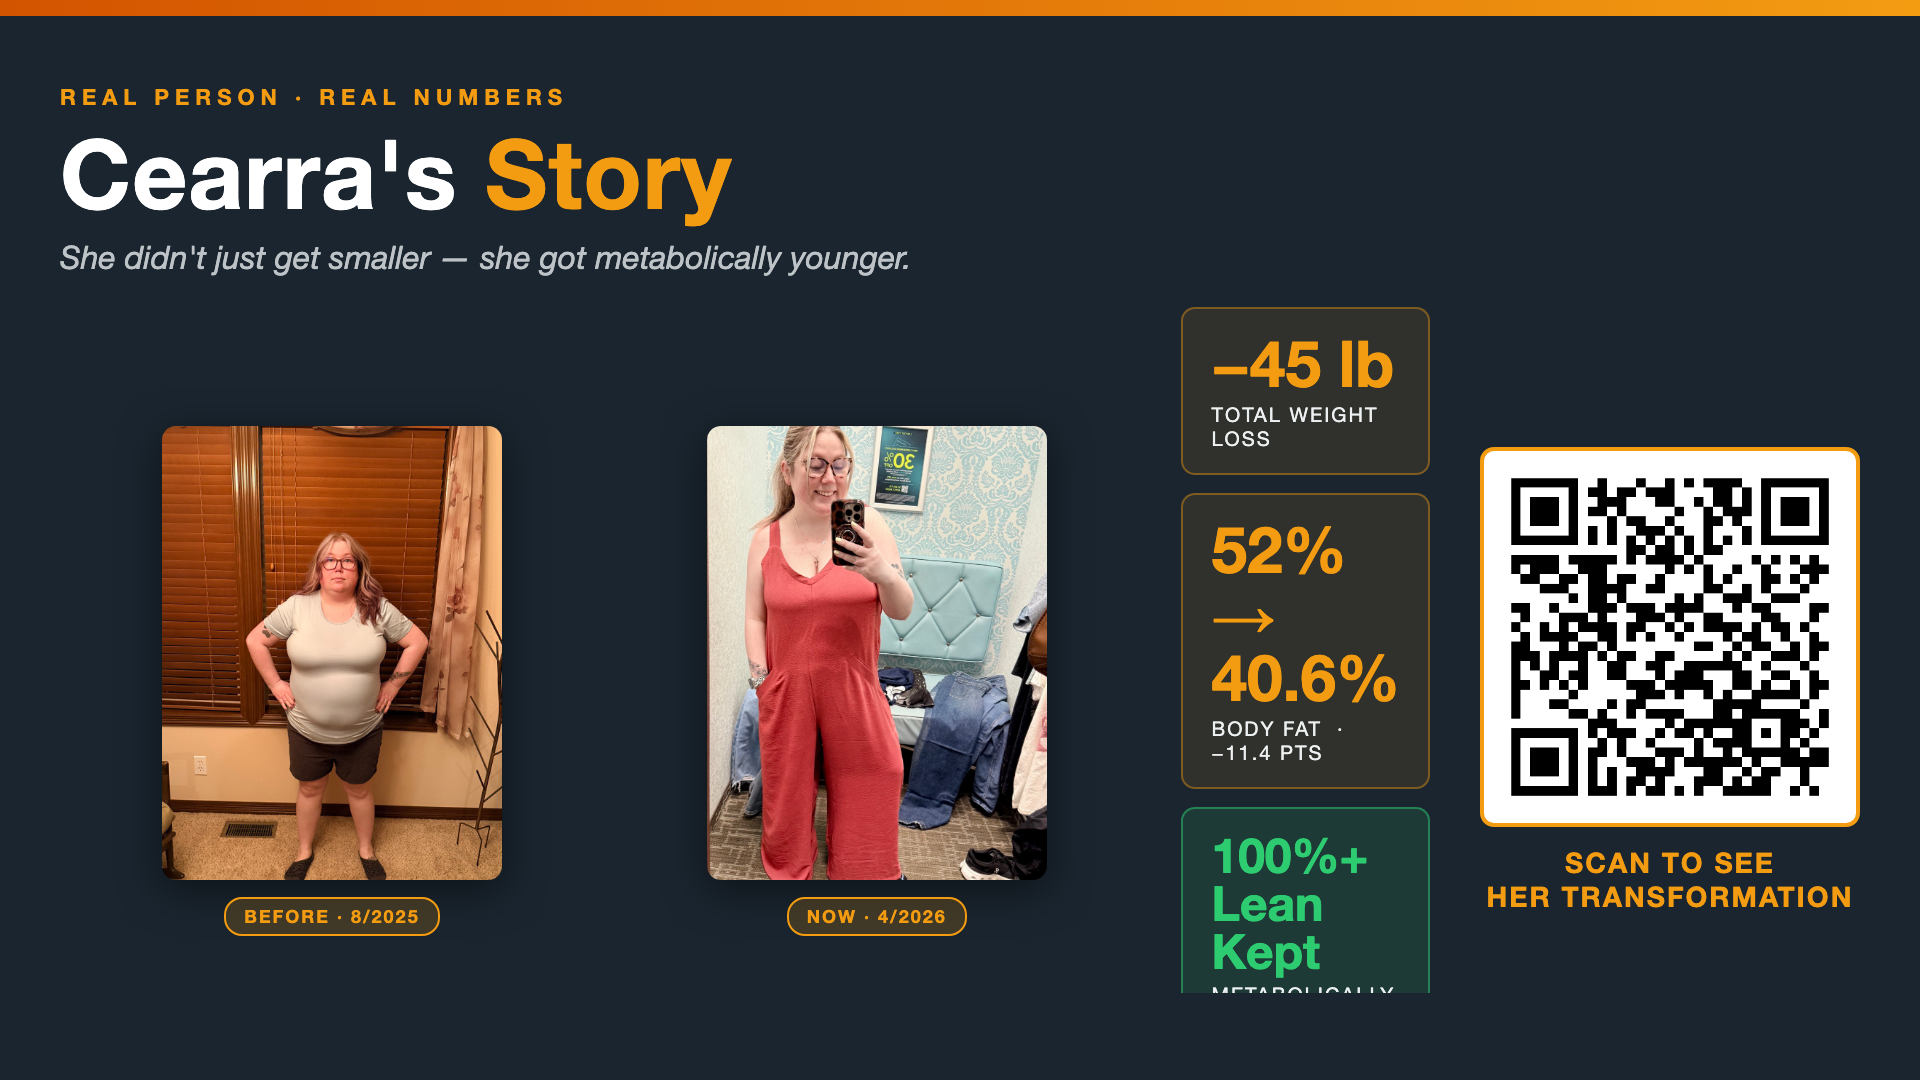
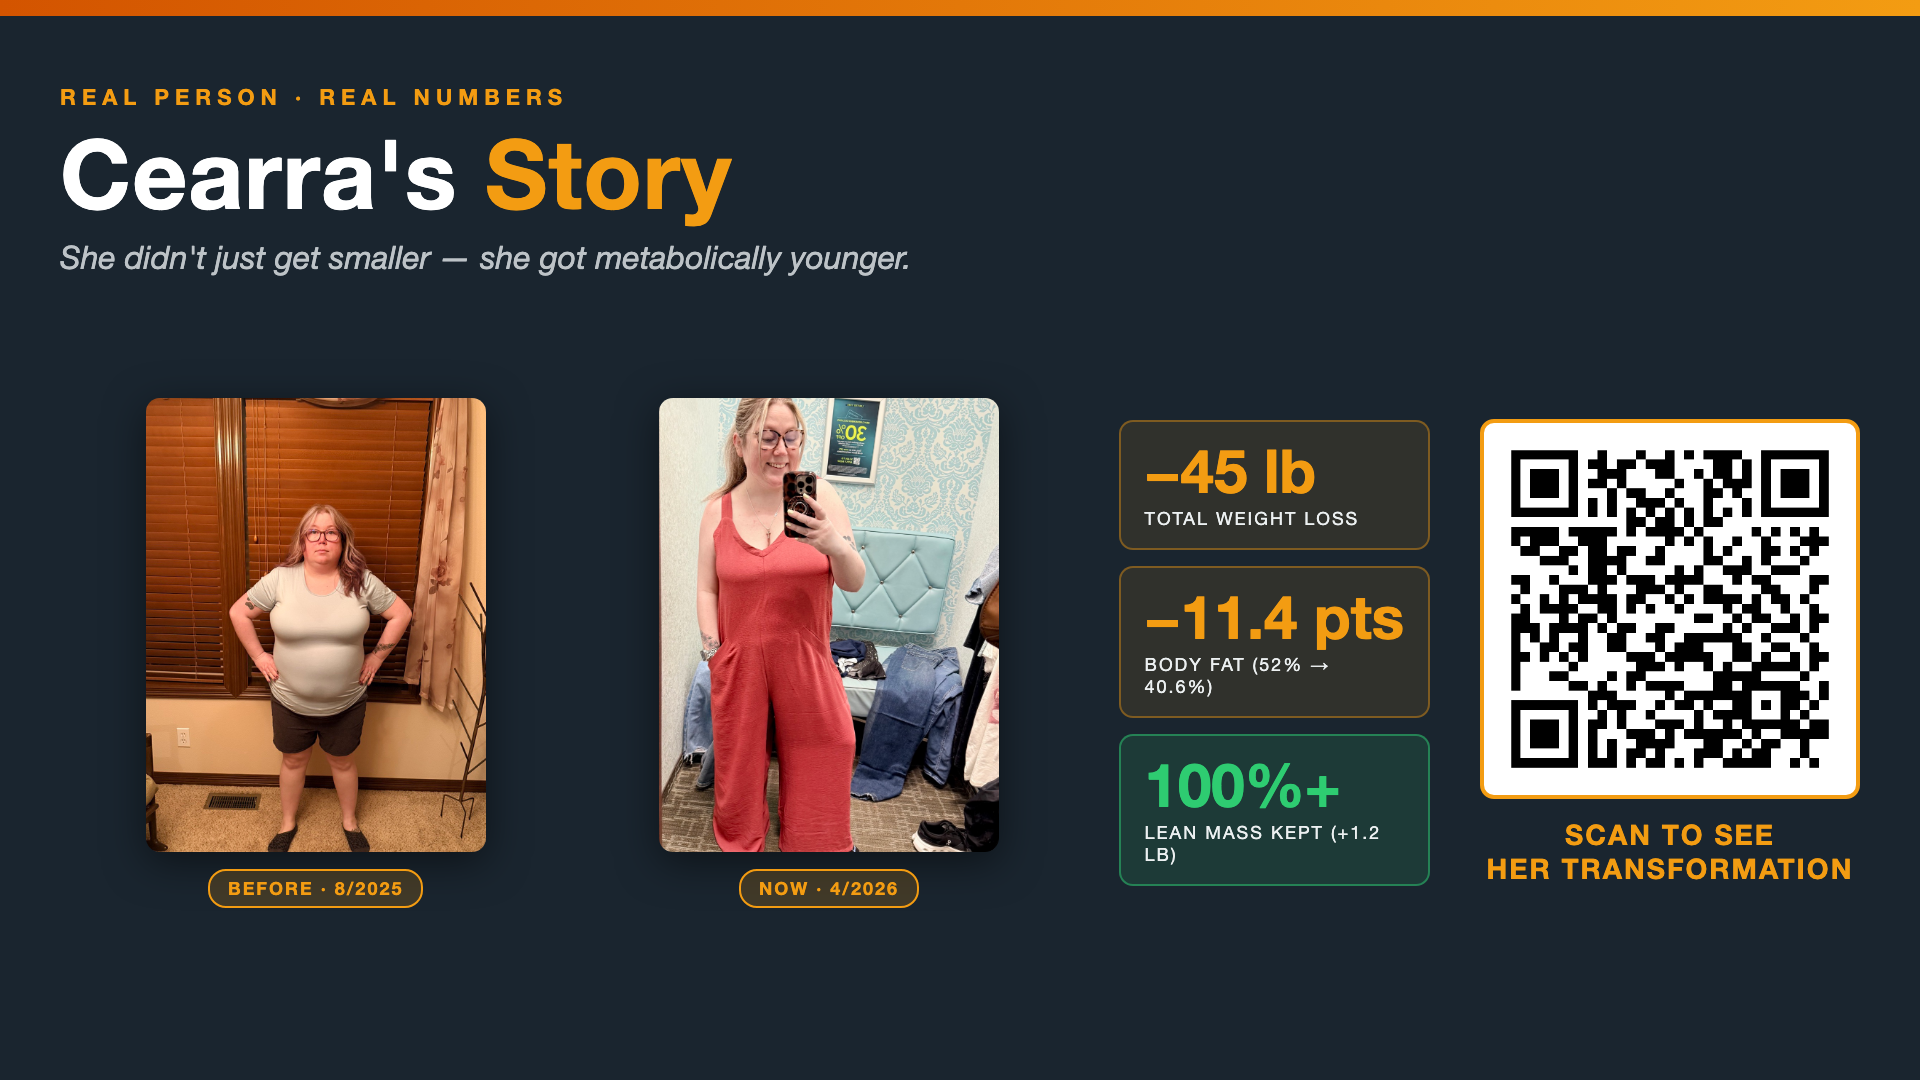
Tighten Cearra/Kolby slide stat cards so nothing clips
Constrains the right-hand stat column to 340px max-width, drops the
headline font from 64 → 60px with white-space:nowrap, and pulls the
numeric delta to the front of the body-fat card ("−11.4 pts" / "−16.8
pts") with the absolute range moved to the subtitle. The third (green)
card now reads "100%+" / "~98%" with the qualifier underneath, matching
the lean-retention framing on the story pages. Bottom of the third card
no longer renders past the 1080px frame.

diff --git a/tv-slides/slide-2-cearra.html b/tv-slides/slide-2-cearra.html
@@ -19,18 +19,18 @@
         </figure>
     </div>
 
-    <div style="flex:1; display:flex; flex-direction:column; gap:18px;">
-        <div style="background:rgba(243,156,18,0.10); border:2px solid rgba(243,156,18,0.4); border-radius:14px; padding:22px 28px;">
-            <div style="color:#f39c12; font-size:64px; font-weight:800; line-height:1;">−45 lb</div>
-            <div style="color:#ecf0f1; font-size:20px; text-transform:uppercase; letter-spacing:2px; margin-top:8px;">Total Weight Loss</div>
+    <div style="flex:1; display:flex; flex-direction:column; gap:16px; max-width:340px;">
+        <div style="background:rgba(243,156,18,0.10); border:2px solid rgba(243,156,18,0.4); border-radius:14px; padding:18px 24px;">
+            <div style="color:#f39c12; font-size:60px; font-weight:800; line-height:1; white-space:nowrap;">−45 lb</div>
+            <div style="color:#ecf0f1; font-size:18px; text-transform:uppercase; letter-spacing:2px; margin-top:8px;">Total Weight Loss</div>
         </div>
-        <div style="background:rgba(243,156,18,0.10); border:2px solid rgba(243,156,18,0.4); border-radius:14px; padding:22px 28px;">
-            <div style="color:#f39c12; font-size:64px; font-weight:800; line-height:1;">52% → 40.6%</div>
-            <div style="color:#ecf0f1; font-size:20px; text-transform:uppercase; letter-spacing:2px; margin-top:8px;">Body Fat &nbsp;·&nbsp; −11.4 pts</div>
+        <div style="background:rgba(243,156,18,0.10); border:2px solid rgba(243,156,18,0.4); border-radius:14px; padding:18px 24px;">
+            <div style="color:#f39c12; font-size:60px; font-weight:800; line-height:1; white-space:nowrap;">−11.4 pts</div>
+            <div style="color:#ecf0f1; font-size:18px; text-transform:uppercase; letter-spacing:2px; margin-top:8px;">Body Fat (52% → 40.6%)</div>
         </div>
-        <div style="background:rgba(46,204,113,0.12); border:2px solid rgba(46,204,113,0.5); border-radius:14px; padding:22px 28px;">
-            <div style="color:#2ecc71; font-size:48px; font-weight:800; line-height:1;">100%+ Lean Kept</div>
-            <div style="color:#ecf0f1; font-size:20px; text-transform:uppercase; letter-spacing:2px; margin-top:8px;">Metabolically younger</div>
+        <div style="background:rgba(46,204,113,0.12); border:2px solid rgba(46,204,113,0.5); border-radius:14px; padding:18px 24px;">
+            <div style="color:#2ecc71; font-size:60px; font-weight:800; line-height:1; white-space:nowrap;">100%+</div>
+            <div style="color:#ecf0f1; font-size:18px; text-transform:uppercase; letter-spacing:2px; margin-top:8px;">Lean Mass Kept (+1.2 lb)</div>
         </div>
     </div>
 

diff --git a/tv-slides/slide-3-kolby.html b/tv-slides/slide-3-kolby.html
@@ -19,18 +19,18 @@
         </figure>
     </div>
 
-    <div style="flex:1; display:flex; flex-direction:column; gap:18px;">
-        <div style="background:rgba(243,156,18,0.10); border:2px solid rgba(243,156,18,0.4); border-radius:14px; padding:22px 28px;">
-            <div style="color:#f39c12; font-size:64px; font-weight:800; line-height:1;">−95 lb</div>
-            <div style="color:#ecf0f1; font-size:20px; text-transform:uppercase; letter-spacing:2px; margin-top:8px;">Total Weight Loss</div>
+    <div style="flex:1; display:flex; flex-direction:column; gap:16px; max-width:340px;">
+        <div style="background:rgba(243,156,18,0.10); border:2px solid rgba(243,156,18,0.4); border-radius:14px; padding:18px 24px;">
+            <div style="color:#f39c12; font-size:60px; font-weight:800; line-height:1; white-space:nowrap;">−95 lb</div>
+            <div style="color:#ecf0f1; font-size:18px; text-transform:uppercase; letter-spacing:2px; margin-top:8px;">Total Weight Loss</div>
         </div>
-        <div style="background:rgba(243,156,18,0.10); border:2px solid rgba(243,156,18,0.4); border-radius:14px; padding:22px 28px;">
-            <div style="color:#f39c12; font-size:60px; font-weight:800; line-height:1;">44.6% → 27.8%</div>
-            <div style="color:#ecf0f1; font-size:20px; text-transform:uppercase; letter-spacing:2px; margin-top:8px;">Body Fat &nbsp;·&nbsp; −16.8 pts</div>
+        <div style="background:rgba(243,156,18,0.10); border:2px solid rgba(243,156,18,0.4); border-radius:14px; padding:18px 24px;">
+            <div style="color:#f39c12; font-size:60px; font-weight:800; line-height:1; white-space:nowrap;">−16.8 pts</div>
+            <div style="color:#ecf0f1; font-size:18px; text-transform:uppercase; letter-spacing:2px; margin-top:8px;">Body Fat (44.6% → 27.8%)</div>
         </div>
-        <div style="background:rgba(46,204,113,0.12); border:2px solid rgba(46,204,113,0.5); border-radius:14px; padding:22px 28px;">
-            <div style="color:#2ecc71; font-size:56px; font-weight:800; line-height:1;">~98% Lean Kept</div>
-            <div style="color:#ecf0f1; font-size:20px; text-transform:uppercase; letter-spacing:2px; margin-top:8px;">Metabolically younger</div>
+        <div style="background:rgba(46,204,113,0.12); border:2px solid rgba(46,204,113,0.5); border-radius:14px; padding:18px 24px;">
+            <div style="color:#2ecc71; font-size:60px; font-weight:800; line-height:1; white-space:nowrap;">~98%</div>
+            <div style="color:#ecf0f1; font-size:18px; text-transform:uppercase; letter-spacing:2px; margin-top:8px;">Lean Mass Kept</div>
         </div>
     </div>
 
